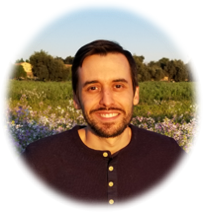
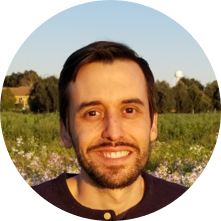
photo

diff --git a/public/es/index.html b/public/es/index.html
@@ -207,7 +207,7 @@
         
           <div class="well">
             <p>En la actualidad estoy estudiando cómo se ensamblan microbiomas en raíces de plantas agrícolas. Mi investigación se enfoca en procesos y mecanismos que pueden informar el desarrollo de herramientas adecuadas para una intensificación sustentable de la agricultura.
-<img src="/img/photo-frontlarge.png" alt="Esteban en frente de una torre de agua en UC Davis."></p>
+<img src="/img/frontpicture.png" alt="Esteban en frente de una torre de agua en UC Davis."></p>
 
           </div>
         

diff --git a/public/index.html b/public/index.html
@@ -220,7 +220,7 @@
         
           <div class="well">
             <p>I am currently studying the plant microbiota and how agricultural root microbiomes assemble. My research focuses on processes and mechanisms that can inform the development of appropriate tools for a sustainable intensification of agriculture.<br>
-<img src="img/photo-frontlarge.png" alt="Esteban with a UC Davis water tower in the background."></p>
+<img src="img/frontpicture.png" alt="Esteban with a UC Davis water tower in the background."></p>
 
           </div>
         

diff --git a/content/_index.es.md b/content/_index.es.md
@@ -1,2 +1,2 @@
 En la actualidad estoy estudiando cómo se ensamblan microbiomas en raíces de plantas agrícolas. Mi investigación se enfoca en procesos y mecanismos que pueden informar el desarrollo de herramientas adecuadas para una intensificación sustentable de la agricultura.
-![Esteban en frente de una torre de agua en UC Davis.](/img/photo-frontlarge.png)
+![Esteban en frente de una torre de agua en UC Davis.](/img/frontpicture.png)

diff --git a/content/_index.en.md b/content/_index.en.md
@@ -1,2 +1,2 @@
 I am currently studying the plant microbiota and how agricultural root microbiomes assemble. My research focuses on processes and mechanisms that can inform the development of appropriate tools for a sustainable intensification of agriculture.  
-![Esteban with a UC Davis water tower in the background.](img/photo-frontlarge.png)
+![Esteban with a UC Davis water tower in the background.](img/frontpicture.png)
